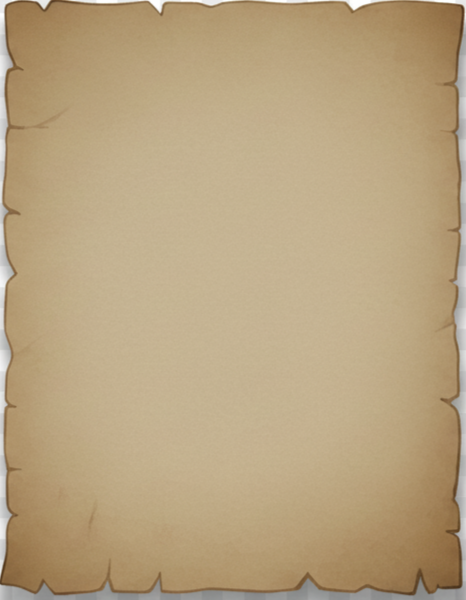
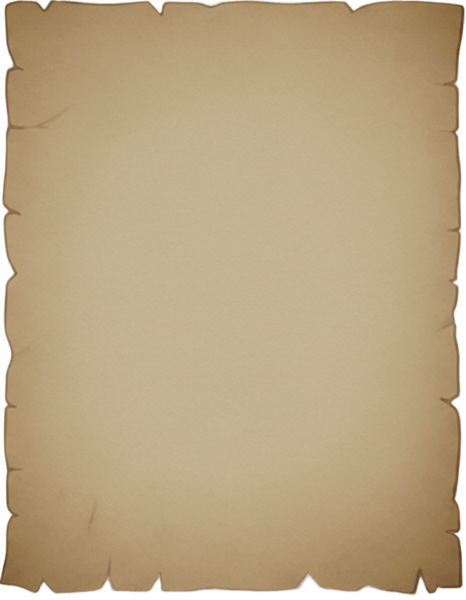
新規キャラクターエフェクト再生完了

Changed region(s): [[0.0, 0.0, 1.0, 1.0], [0.8412, 0.0, 0.9013, 0.03]]

diff --git a/src/CBattle.h b/src/CBattle.h
@@ -456,6 +456,37 @@ private:
 				arg_character->takeAction(TargetList);
 				// spの更新
 				updataSP(arg_character);
+				// エフェクト再生
+				if (arg_character->getActionChoice() == SKILL) {
+					switch (arg_character->getEfType()) {
+
+					case EffectType::EF_ALL_SKILL1:
+
+
+						for (auto& target : TargetList) {
+							arg_character->PlaySkillEffect(target->getPosX(), target->getPosY(), 80, 80);
+						}
+						// se再生
+						se->PlaySe(CLoad::Instance().getSeHandle(SE_SKILL2));
+						break;
+
+					case EffectType::EF_ALL_SKILL2:
+						arg_character->PlaySkillEffect(1000, WINDOW_H / 2 + 300, 250, 350);
+
+						// se再生
+						se->PlaySe(CLoad::Instance().getSeHandle(SE_SKILL2));
+						break;
+
+					case EffectType::EF_DEBUFF:
+						for (auto& target : TargetList) {
+							arg_character->PlaySkillEffect(target->getPosX(), target->getPosY(), 50, 40);
+						}
+						// se再生
+						se->PlaySe(CLoad::Instance().getSeHandle(SE_BUFF));
+						break;
+					}
+
+				}
 				// ターゲット選択モードをオフ
 				targetInput = TargetInput::END;
 
@@ -471,6 +502,33 @@ private:
 				arg_character->takeAction(TargetList);
 				// spの更新
 				updataSP(arg_character);
+				// エフェクト再生
+				if (arg_character->getActionChoice() == SKILL) {
+					switch (arg_character->getEfType()) {
+
+					case EffectType::EF_HEAL:
+
+						for (auto i = 0; i < TargetList.size(); i++) {
+							arg_character->PlaySkillEffect(TargetList[i]->getPosX(), TargetList[i]->getPosY(), 30, 40);
+						}
+						
+						// se再生
+						se->PlaySe(CLoad::Instance().getSeHandle(SE_HEAL));
+						break;
+
+					case EffectType::EF_BUFF:
+						for (auto i = 0; i < TargetList.size(); i++) {
+							arg_character->PlaySkillEffect(TargetList[i]->getPosX(), TargetList[i]->getPosY(), 50, 40);
+						}
+						
+						// se再生
+						se->PlaySe(CLoad::Instance().getSeHandle(SE_BUFF));
+						break;
+
+					}
+
+				}
+
 				// ターゲット選択モードをオフ
 				targetInput = TargetInput::END;
 

diff --git a/src/QuestBoard.cpp b/src/QuestBoard.cpp
@@ -120,7 +120,7 @@ void QuestBoard::Draw(int arg_handle, int arg_sizeX, int arg_sizeY)
 		DrawFormatString((int)r.x, (int)r.y, GetColor(255, 255, 255), "stage%d",i+1);
 		DrawFormatString((int)r.x + 20, (int)r.y + 80, GetColor(255, 255, 255), "%s", r.title.c_str());
 		SetFontSize(18);
-		DrawFormatString((int)r.x, (int)r.y + 150, GetColor(255, 255, 255), "%s", r.description.c_str());
+		DrawFormatString((int)r.x + 50, (int)r.y + 150, GetColor(255, 255, 255), "%s", r.description.c_str());
 
 	}
 
